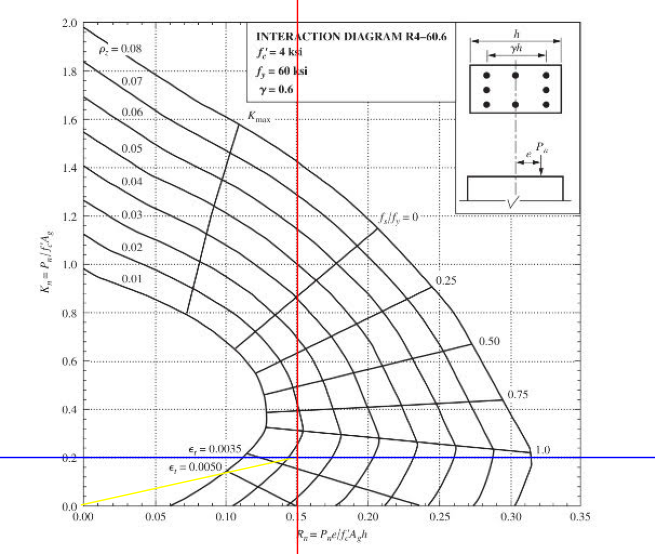
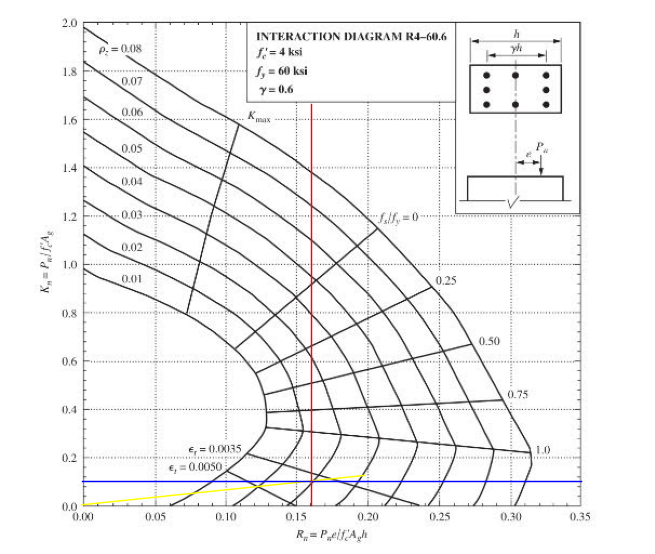
more configuration in vertical, horizontal, and radial line

Changed region(s): [[0.0, 0.0, 1.0, 1.0]]

diff --git a/interaction_diagram.py b/interaction_diagram.py
@@ -4,8 +4,7 @@
 """
 Interaction Diagram Overlay Tool (Configurable)
 ==============================================
-Overlays reference lines on top of a static base image.
-Supports horizontal, vertical, and radial (origin-to-point) lines.
+Overlays reference lines with relative radial extensions.
 """
 
 import argparse
@@ -37,7 +36,6 @@ def load_config(config_path):
     """Load configuration from a JSON file."""
     if not os.path.exists(config_path):
         if config_path == DEFAULT_CONFIG_PATH:
-            print(f"Warning: Default config '{DEFAULT_CONFIG_PATH}' not found.")
             return {}
         else:
             sys.exit(f"Error: Config file not found: {config_path}")
@@ -48,7 +46,7 @@ def load_config(config_path):
         sys.exit(f"Error loading config file: {e}")
 
 
-# ── Calibration ──────────────────────────────────────────────────────────────
+# ── Calibration & Coordinate Mapping ─────────────────────────────────────────
 
 def calibrate(p1_px, p1_val, p2_px, p2_val):
     """Compute an affine pixel ↔ data-coordinate transform."""
@@ -58,7 +56,7 @@ def calibrate(p1_px, p1_val, p2_px, p2_val):
     px2_x, px2_y = p2_px
 
     if rn2 == rn1 or kn2 == kn1:
-        raise ValueError("Calibration points must not sharing an axis value.")
+        raise ValueError("Calibration points must not share an axis value.")
 
     scale_x = (px2_x - px1_x) / (rn2 - rn1)
     scale_y = (px2_y - px1_y) / (kn2 - kn1)
@@ -119,9 +117,37 @@ def interactive_mode(image_path):
 
 # ── Overlay drawing ──────────────────────────────────────────────────────────
 
+def resolve_boundary(val, current_point_val, image_limit_px, transform, axis):
+    """Resolve 'point', numeric, or None boundaries into pixel coordinates."""
+    if val == "point": return current_point_val
+    if isinstance(val, (int, float)):
+        if axis == "rn":
+            px, _ = to_pixel(val, 0, transform)
+            return px
+        else:
+            _, py = to_pixel(0, val, transform)
+            return py
+    return 0 if val is None else val
+
+
+def evaluate_conditional_limits(rules, kn, rn, type_key):
+    """Find the first matching rule in a list of conditional limits."""
+    sorted_rules = sorted(rules, key=lambda x: max(x.get("if_rn_above", 0), x.get("if_kn_above", 0)), reverse=True)
+    for rule in sorted_rules:
+        match = False
+        if "if_rn_above" in rule and rn > rule["if_rn_above"]:
+            match = True
+        elif "if_kn_above" in rule and kn > rule["if_kn_above"]:
+            match = True
+        if match:
+            return rule.get(f"then_{type_key}")
+    return None
+
+
 def plot_overlay(image_path, kn, rn, transform, config, output_path):
-    """Draw reference lines and annotations."""
+    """Draw reference lines and annotations with multi-variable conditional limits."""
     img = mpimg.imread(image_path)
+    img_h, img_w = img.shape[:2]
     pixel_x, pixel_y = to_pixel(rn, kn, transform)
     origin_px_x, origin_px_y = to_pixel(0.0, 0.0, transform)
 
@@ -130,25 +156,63 @@ def plot_overlay(image_path, kn, rn, transform, config, output_path):
     ax.axis("off")
 
     style = config.get("style", {})
-    h_style = style.get("horizontal_line", DEFAULT_STYLE["horizontal_line"])
-    v_style = style.get("vertical_line", DEFAULT_STYLE["vertical_line"])
-    r_style = style.get("radial_line", DEFAULT_STYLE["radial_line"])
+    h_style = style.get("horizontal_line", DEFAULT_STYLE["horizontal_line"]).copy()
+    v_style = style.get("vertical_line", DEFAULT_STYLE["vertical_line"]).copy()
+    r_style = style.get("radial_line", DEFAULT_STYLE["radial_line"]).copy()
     d_style = style.get("dot", DEFAULT_STYLE["dot"])
     l_style = style.get("label", DEFAULT_STYLE["label"])
 
-    # Radial line (origin to point)
-    ax.plot([origin_px_x, pixel_x], [origin_px_y, pixel_y], **r_style)
+    # ── Horizontal Line Bounds ──
+    h_start_rn = h_style.pop("start_rn", None)
+    h_end_rn = h_style.pop("end_rn", "full")
+    h_cond_limits = h_style.pop("conditional_limits", [])
+    h_override = evaluate_conditional_limits(h_cond_limits, kn, rn, "end_rn")
+    if h_override is not None: h_end_rn = h_override
 
-    # Horizontal & Vertical lines
-    ax.axhline(y=pixel_y, **h_style)
-    ax.axvline(x=pixel_x, **v_style)
+    if h_end_rn == "full":
+        ax.axhline(y=pixel_y, **h_style)
+    else:
+        h_px_start = resolve_boundary(h_start_rn, pixel_x, 0, transform, "rn")
+        h_px_end = resolve_boundary(h_end_rn, pixel_x, img_w, transform, "rn")
+        ax.plot([h_px_start, h_px_end], [pixel_y, pixel_y], **h_style)
 
-    # Optional Intersection dot
+    # ── Vertical Line Bounds ──
+    v_start_kn = v_style.pop("start_kn", None)
+    v_end_kn = v_style.pop("end_kn", "full")
+    v_cond_limits = v_style.pop("conditional_limits", [])
+    v_override = evaluate_conditional_limits(v_cond_limits, kn, rn, "end_kn")
+    if v_override is not None: v_end_kn = v_override
+
+    if v_end_kn == "full":
+        ax.axvline(x=pixel_x, **v_style)
+    else:
+        v_px_start = resolve_boundary(v_start_kn, pixel_y, img_h, transform, "kn")
+        v_px_end = resolve_boundary(v_end_kn, pixel_y, 0, transform, "kn")
+        ax.plot([pixel_x, pixel_x], [v_px_start, v_px_end], **v_style)
+
+    # ── Radial line (origin to intersection + extension) ──
+    extension_px = r_style.pop("extension", 0)
+    r_target_px_x, r_target_px_y = pixel_x, pixel_y
+    
+    if extension_px != 0:
+        # Calculate unit vector from origin to point
+        dx = pixel_x - origin_px_x
+        dy = pixel_y - origin_px_y
+        dist = np.sqrt(dx**2 + dy**2)
+        if dist > 0:
+            ux, uy = dx / dist, dy / dist
+            r_target_px_x = pixel_x + ux * extension_px
+            r_target_px_y = pixel_y + uy * extension_px
+    
+    # Plot radial line last so it's on top
+    ax.plot([origin_px_x, r_target_px_x], [origin_px_y, r_target_px_y], zorder=10, **r_style)
+
+    # Intersection dot
     if d_style.get("visible", True):
         ax.plot(pixel_x, pixel_y, "o", color=d_style.get("color", "red"),
                 markersize=d_style.get("markersize", 8), zorder=5)
 
-    # Optional Intersection label
+    # Intersection label
     if l_style.get("visible", True):
         ax.annotate(
             f"Rn = {rn:.3f}\nKn = {kn:.3f}",
@@ -168,11 +232,8 @@ def plot_overlay(image_path, kn, rn, transform, config, output_path):
     # Save
     dpi = config.get("output", {}).get("dpi", 150)
     plt.savefig(output_path, dpi=dpi, bbox_inches="tight", pad_inches=0)
-
-    # Only show if the backend is interactive
     if plt.get_backend().lower() not in ["agg", "svg", "pdf", "ps"]:
         plt.show()
-
     return pixel_x, pixel_y
 
 
